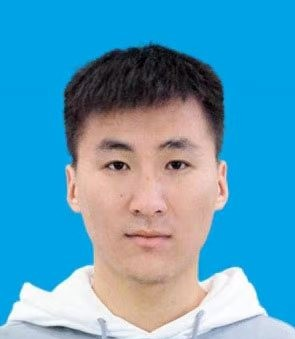
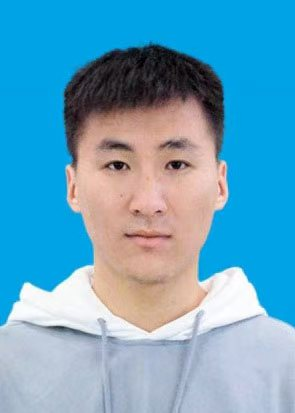
1

diff --git a/content/_index.md b/content/_index.md
@@ -60,41 +60,30 @@ sections:
       title: Ni An
       subtitle: Principal Investigator
       text: |
-        <div style="display: flex; flex-direction: column; align-items: center; margin-bottom: 1.5rem;">
-
-            <!-- 头像 -->
+        <div style="text-align: center; margin-top: 1rem; margin-bottom: 1rem;">
             <img src="/media/anni.jpg"
-                alt="Ni An"
-                style="max-width: 260px; width: 100%; height: auto; border-radius: 8px;">
-
-            <!-- 简介 -->
-            <p style="margin-top: 1rem; max-width: 800px; text-align: justify;">
-              Doctoral supervisor, national-level high-level overseas young talent, and outstanding young research talent.
-              Graduated with a Ph.D. in Geotechnical Engineering from École Nationale des Ponts et Chaussées.
-            </p>
-
-          </div>
-
-
-  - block: markdown
-    content:
-      title: Ni An  
-      subtitle: Principal Investigator
-               ![Ni An](anni.jpg) 
-
-      text: |
-        <div style="text-align: center;">
-          <img src="/media/anni.jpg" alt="Ni An">
+               alt="Ni An"
+               style="max-width: 300px; width: 100%; height: auto; border-radius: 8px; display: block; margin: 0 auto;" />
         </div>
-        Doctoral supervisor, national-level high-level overseas young talent, and outstanding young researcher in Sino-French cooperation. Graduated with a Ph.D. in Geotechnical Engineering from École National des Ponts et Chaussées, Institut Polytechnique de Paris in 2017, under the guidance of Professor Yujun Cui, an international expert in unsaturated soil mechanics. Conducted research on the interaction between the atmosphere and soil, as well as field tests, laboratory experiments, and numerical calculations of soil thermal, hydraulic, mechanical responses under extreme weather conditions. After obtaining the Ph.D., worked at the Centre for Environmental Geotechnics, Cardiff University, under the supervision of Professor H.R. Thomas, a fellow of the Royal Society and the Royal Academy of Engineering, and an academician of the Chinese Academy of Sciences, focusing on the development and application of multi-field coupling models of heat, water, gas, force, and chemistry in geotechnical materials. Joined the Institute of Disaster Prevention Engineering, College of Civil Engineering and Architecture, Zhejiang University in 2021 as a "Hundred Talents Program" researcher. Has led and participated in over ten research projects including the national-level high-level overseas young talent program and the National Natural Science Foundation of China.
 
-        The research direction is engineering geological environment and disasters, including the influence of climate change and extreme climate conditions on the near-surface multi-field environment, the interaction process of atmosphere-plant-soil, the mechanism of mass landslide disasters and ecological prevention and control measures, the extended application of artificial intelligence algorithms in engineering geology/rock and soil engineering, and the multi-field response of rock and soil bodies to heat, water, force, and biological/chemical factors. 
-        So far, I have published over 30 papers in journals such as Engineering Geology, International Journal of Coal Geology, Computers and Geotechnics, Fuel, Journal of Environmental Management, and Journal of Cleaner Production, which are in the fields of engineering geology, geotechnical engineering, and energy engineering. The average impact factor of these journals is 5.9. I serve as the part-time deputy secretary-general of the International Affairs Department of the Chinese Society for Rock Mechanics and Engineering, an editorial board member of the Canadian Geotechnical Journal, a council member of the Landslide and Engineering Slope Branch of the Chinese Society for Rock Mechanics and Engineering, a young editorial board member of the Journal of Earth Environment, a young editorial board member of the international journal Deep Underground Science and Engineering, a part-time editor of the Journal of Rock Mechanics and Geotechnical Engineering (English Edition), and a reviewer for over 20 international SCI journals and international conferences.
+        <p style="max-width: 1300px; margin: 0 auto; text-align: justify;">
+          Doctoral supervisor, national-level high-level overseas young talent, and outstanding young researcher in Sino-French cooperation. Graduated with a Ph.D. in Geotechnical Engineering from École National des Ponts et Chaussées, Institut Polytechnique de Paris in 2017, under the guidance of Professor Yujun Cui, an international expert in unsaturated soil mechanics. Conducted research on the interaction between the atmosphere and soil, as well as field tests, laboratory experiments, and numerical calculations of soil thermal, hydraulic, mechanical responses under extreme weather conditions. After obtaining the Ph.D., worked at the Centre for Environmental Geotechnics, Cardiff University, under the supervision of Professor H.R. Thomas, a fellow of the Royal Society and the Royal Academy of Engineering, and an academician of the Chinese Academy of Sciences, focusing on the development and application of multi-field coupling models of heat, water, gas, force, and chemistry in geotechnical materials. Joined the Institute of Disaster Prevention Engineering, College of Civil Engineering and Architecture, Zhejiang University in 2021 as a "Hundred Talents Program" researcher. Has led and participated in over ten research projects including the national-level high-level overseas young talent program and the National Natural Science Foundation of China.
+        </p>
 
-        Personal Homepage Link: https://www.researchgate.net/profile/Ni-An; 
-        https://scholar.google.co.uk/citations?user=iO3FNFUAAAAJ&hl=en
+
+        <p style="max-width: 1300px; margin: 1rem auto 0; text-align: justify;">
+          The research direction is engineering geological environment and disasters, including the influence of climate change and extreme climate conditions on the near-surface multi-field environment, the interaction process of atmosphere-plant-soil, the mechanism of mass landslide disasters and ecological prevention and control measures, the extended application of artificial intelligence algorithms in engineering geology/rock and soil engineering, and the multi-field response of rock and soil bodies to heat, water, force, and biological/chemical factors. 
+          So far, I have published over 30 papers in journals such as Engineering Geology, International Journal of Coal Geology, Computers and Geotechnics, Fuel, Journal of Environmental Management, and Journal of Cleaner Production, which are in the fields of engineering geology, geotechnical engineering, and energy engineering. The average impact factor of these journals is 5.9. I serve as the part-time deputy secretary-general of the International Affairs Department of the Chinese Society for Rock Mechanics and Engineering, an editorial board member of the Canadian Geotechnical Journal, a council member of the Landslide and Engineering Slope Branch of the Chinese Society for Rock Mechanics and Engineering, a young editorial board member of the Journal of Earth Environment, a young editorial board member of the international journal Deep Underground Science and Engineering, a part-time editor of the Journal of Rock Mechanics and Geotechnical Engineering (English Edition), and a reviewer for over 20 international SCI journals and international conferences.
+          <br><br>
+
+          Personal Homepage Link: https://www.researchgate.net/profile/Ni-An; 
+          https://scholar.google.co.uk/citations?user=iO3FNFUAAAAJ&hl=en
+        </p>
+
     design:
       columns: '1'
+
+
 
   - block: collection  #从内容库里（如 content/post/、content/publication/ 等）自动拉取若干条，按指定样式显示。
     content:
@@ -140,13 +129,13 @@ sections:
         3. ANDRA Project (French National Radioactive Waste Management Agency): Study on the Impact of Climatic Conditions on the Overlying Soil Layer of Shallow Radioactive Waste Disposal Repositories.
         4. EU Action COST-TU1202 "Impact of Climate Change on Engineered Slopes in Infrastructure".
         5. EU-Marie Skłodowska-Curie IRSES Project "GREAT": Research on Geotechnical Engineering Issues Related to Climate Change.
-        6. Key Technology for Accurate Identification and Defense of Rainfall-Induced Group Landslide Risks in Southeast China, National Key R&D Program of China.
-        7. Mechanism of Moisture Migration in Unsaturated Residual Soil Under Evaporation and Its Impact on Rainfall Threshold of Landslides, National Natural Science Foundation of China.
-        8. Study on Preferential Flow Characteristics and Slope Hydrological Response of Vegetated Slopes in Hilly and Mountainous Areas of Southern China, Key Laboratory of Coupling Processes and Effects of Natural Resources.
-        9. Special Research on Investigation and Monitoring of Preferential Flow Development Characteristics in Slopes with High Vegetation Coverage, China Geological Survey.
-        10. Study on Key Technologies for Low-Carbon and High-Value Resource Utilization of Drilling Slag in Pile Foundation Engineering, Jiaxing Transportation Investment Group.
-        11. Research and Application of Key Technologies for Resource Utilization of Construction Waste Residue, Zhejiang Communications Construction Group.
-        12. Initiation Mechanism and Susceptibility Analysis of Group Landslides in Areas with High Vegetation Coverage, Zhejiang University.
+        6. Key Technology for Accurate Identification and Defense of Rainfall-Induced Group Landslide Risks in Southeast China. National Key R&D Program of China.
+        7. Mechanism of Moisture Migration in Unsaturated Residual Soil Under Evaporation and Its Impact on Rainfall Threshold of Landslides. National Natural Science Foundation of China.
+        8. Study on Preferential Flow Characteristics and Slope Hydrological Response of Vegetated Slopes in Hilly and Mountainous Areas of Southern China. Key Laboratory of Coupling Processes and Effects of Natural Resources.
+        9. Special Research on Investigation and Monitoring of Preferential Flow Development Characteristics in Slopes with High Vegetation Coverage. China Geological Survey.
+        10. Study on Key Technologies for Low-Carbon and High-Value Resource Utilization of Drilling Slag in Pile Foundation Engineering. Jiaxing Transportation Investment Group.
+        11. Research and Application of Key Technologies for Resource Utilization of Construction Waste Residue. Zhejiang Communications Construction Group.
+        12. Initiation Mechanism and Susceptibility Analysis of Group Landslides in Areas with High Vegetation Coverage. Zhejiang University.
 
 
 #  - block: markdown

diff --git a/content/people/dzs/_index.md b/content/people/dzs/_index.md
@@ -4,6 +4,8 @@ first_name:
 last_name: 
 role: "PhD student"
 #bio: "Alice Wu is a professor of artificial intelligence at the Stanford AI Lab."
+weight: 4        # 数字越小，排在越前面
+date: 2023-09-01T00:00:00Z   # <--- 新增这一行，日期自己改
 image:
   filename: dzs.jpg  # 图片的文件名，确保照片在 assets/media 文件夹中
   alt: ""
@@ -13,4 +15,6 @@ image:
 #  - icon: github
 #    link: ""
 ---
+PhD student. Email : ZhishengDai123@163.com
+
 I am from Dali, Yunnan Province. I obtained my bachelor’s degree from Huazhong Agricultural University in 2018, along with a double bachelor’s degree from China University of Geosciences (Wuhan). From 2018 to 2021, I pursued a master’s degree in Soil and Water Conservation and Desertification Combating at Beijing Forestry University, with my research focus on mountain disaster prevention and control. Between 2021 and 2023, I worked in the investment and financing management position at Yunnan Construction Infrastructure Investment Co., Ltd. Since September 2023, I have been studying for a PhD degree at Zhejiang University, and my current research direction is the development mechanism of group geological disasters.

diff --git a/content/people/sxy/_index.md b/content/people/sxy/_index.md
@@ -3,7 +3,9 @@ title: "Xiaoying Shen"
 first_name: 
 last_name: 
 role: "PhD student"
+weight: 3        # 数字越小，排在越前面
 #bio: "Alice Wu is a professor of artificial intelligence at the Stanford AI Lab."
+date: 2022-09-01T00:00:00Z   # <--- 新增这一行，日期自己改
 image:
   filename: sxy.jpg  # 图片的文件名，确保照片在 assets/media 文件夹中
   alt: ""
@@ -13,5 +15,6 @@ image:
 #  - icon: github
 #    link: ""
 ---
+PhD student. Email : 12212114@zju.edu.cn
 
 I am a PhD student admitted in 2022. I obtained my bachelor’s and master’s degrees from Chongqing University. My current research focus is on the mechanism of moisture migration in unsaturated residual soil under evaporation and its impact on the rainfall threshold of landslides.

diff --git a/content/people/xez/_index.md b/content/people/xez/_index.md
@@ -3,7 +3,9 @@ title: "Enze Xie"
 first_name: 
 last_name: 
 role: "PhD student"
+weight: 2        # 数字越小，排在越前面
 #bio: "Alice Wu is a professor of artificial intelligence at the Stanford AI Lab."
+date: 2022-09-01T00:00:00Z   # <--- 新增这一行，日期自己改
 image:
   filename: xez.jpg  # 图片的文件名，确保照片在 assets/media 文件夹中
   alt: ""
@@ -13,5 +15,6 @@ image:
 #  - icon: github
 #    link: ""
 ---
+PhD student. Email : 12212113@zju.edu.cn
 
 I obtained my bachelor's degree from Zhengzhou University and have been a direct PhD student (admitted in 2022) ever since. My main research fields are machine learning and geological engineering, with a specific focus on the interaction model between atmosphere, plants and soil.

diff --git a/content/people/wc/_index.md b/content/people/wc/_index.md
@@ -3,7 +3,9 @@ title: "Cheng Wang"
 first_name: 
 last_name: 
 role: "Master student"
+weight: 8        # 数字越小，排在越前面
 #bio: "Alice Wu is a professor of artificial intelligence at the Stanford AI Lab."
+date: 2023-09-01T00:00:00Z   # <--- 新增这一行，日期自己改
 image:
   filename: wc.png  # 图片的文件名，确保照片在 assets/media 文件夹中
   alt: ""
@@ -13,5 +15,6 @@ image:
 #  - icon: github
 #    link: ""
 ---
+Master student. Email : 13257006215@163.com
 
 I obtained my bachelor’s degree from the School of Civil Engineering, Nanchang University, with a focus on the road and bridge direction. My research interest lies in the study of rainfall thresholds for group shallow landslides.

diff --git a/content/people/qyf/_index.md b/content/people/qyf/_index.md
@@ -3,7 +3,9 @@ title: "Yongfei Qi"
 first_name: 
 last_name:
 role: "Research Assistant"
+weight: 1        # 数字越小，排在越前面
 #bio: "Alice Wu is a professor of artificial intelligence at the Stanford AI Lab."
+date: 2023-09-01T00:00:00Z   # <--- 新增这一行，日期自己改
 image:
   filename: qyf.jpg  # 图片的文件名，确保照片在 assets/media 文件夹中
   alt: ""
@@ -13,5 +15,6 @@ image:
 #  - icon: github
 #    link: ""
 ---
+Research Assistant. Email : 18638685283@163.com
 
 I am from Xinyang, Henan Province. I hold a master's degree and graduated from Northeast Forestry University. My research focus is on root-soil interaction and the mechanism of shallow landslide disasters.

diff --git a/content/people/zjq/_index.md b/content/people/zjq/_index.md
@@ -3,7 +3,9 @@ title: "Jianqiang Zhou"
 first_name: 
 last_name: 
 role: "PhD student"
+weight: 5        # 数字越小，排在越前面
 #bio: "Alice Wu is a professor of artificial intelligence at the Stanford AI Lab."
+date: 2024-09-01T00:00:00Z   # <--- 新增这一行，日期自己改
 image:
   filename: zjq.jpg  # 图片的文件名，确保照片在 assets/media 文件夹中
   alt: ""
@@ -13,5 +15,6 @@ image:
 #  - icon: github
 #    link: ""
 ---
+PhD student. Email: jqzhou@zju.edu.cn
 
 I obtained my bachelor's degree from the College of Civil Engineering, Hunan University, and am currently a 2024-entry direct PhD student. My research focus is on post-disaster recovery of landslides.

diff --git a/content/people/mjw/_index.md b/content/people/mjw/_index.md
@@ -2,8 +2,10 @@
 title: "Jingwen Ma"
 first_name: 
 last_name: 
-role: "Master studen"
+role: "Master student"
+weight: 9        # 数字越小，排在越前面
 #bio: "Alice Wu is a professor of artificial intelligence at the Stanford AI Lab."
+date: 2024-09-01T00:00:00Z   # <--- 新增这一行，日期自己改
 image:
   filename: mjw.jpg  # 图片的文件名，确保照片在 assets/media 文件夹中
   alt: ""
@@ -13,5 +15,6 @@ image:
 #  - icon: github
 #    link: ""
 ---
+Master student. Email : 22412055@zju.edu.cn
 
 I obtained my bachelor’s degree from Shandong University, with my research focus on carbon emissions from resource utilization of construction waste residues.

diff --git a/content/people/zy/_index.md b/content/people/zy/_index.md
@@ -2,8 +2,10 @@
 title: "Yue Zhong"
 first_name: 
 last_name: 
-role: "Master studen"
+role: "Master student"
+weight: 7        # 数字越小，排在越前面
 #bio: "Alice Wu is a professor of artificial intelligence at the Stanford AI Lab."
+date: 2022-09-01T00:00:00Z   # <--- 新增这一行，日期自己改
 image:
   filename: zy.jpg  # 图片的文件名，确保照片在 assets/media 文件夹中
   alt: ""
@@ -13,5 +15,6 @@ image:
 #  - icon: github
 #    link: ""
 ---
+Master student. Email : yuezhongzju@163.com
 
 I obtained my bachelor’s degree from Zhejiang University of Technology, with my research focus on urban soil carbon sequestration.

diff --git a/content/people/ztg/_index.md b/content/people/ztg/_index.md
@@ -3,7 +3,9 @@ title: "Tinggui Zhang"
 first_name: 
 last_name: 
 role: "PhD student"
+weight: 6        # 数字越小，排在越前面
 #bio: "Alice Wu is a professor of artificial intelligence at the Stanford AI Lab."
+date: 2025-09-01T00:00:00Z   # <--- 新增这一行，日期自己改
 image:
   filename: ztg.jpg  # 图片的文件名，确保照片在 assets/media 文件夹中
   alt: ""
@@ -13,5 +15,6 @@ image:
 #  - icon: github
 #    link: ""
 ---
+PhD student. Email : z0511@163.com
 
 I obtained my bachelor’s degree from Central South University, with my research focus on the development mechanism of group geological disasters.

diff --git a/content/people/yry/_index.md b/content/people/yry/_index.md
@@ -2,8 +2,10 @@
 title: "Ruoyu Yang"
 first_name: 
 last_name: 
-role: "Master studen"
+role: "Master student"
+weight: 10        # 数字越小，排在越前面
 #bio: "Alice Wu is a professor of artificial intelligence at the Stanford AI Lab."
+date: 2025-09-01T00:00:00Z   # <--- 新增这一行，日期自己改
 image:
   filename: yry.jpg  # 图片的文件名，确保照片在 assets/media 文件夹中
   alt: ""
@@ -13,4 +15,6 @@ image:
 #  - icon: github
 #    link: ""
 ---
+Master student. Email : yry20020729@163.com
+
 I obtained my bachelor’s degree from Taiyuan University of Technology.
